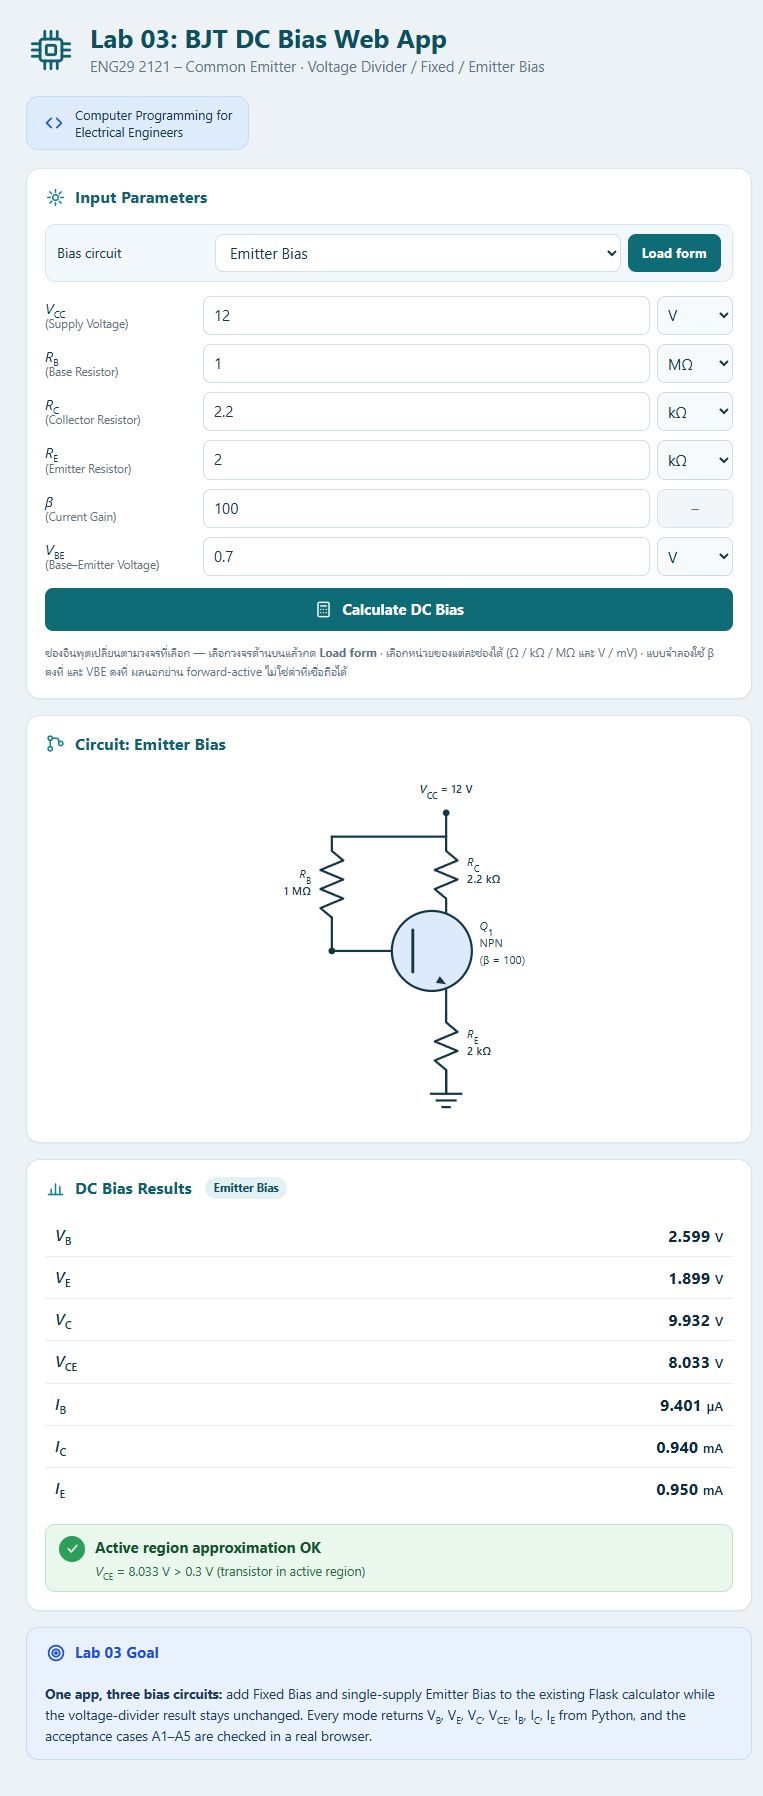
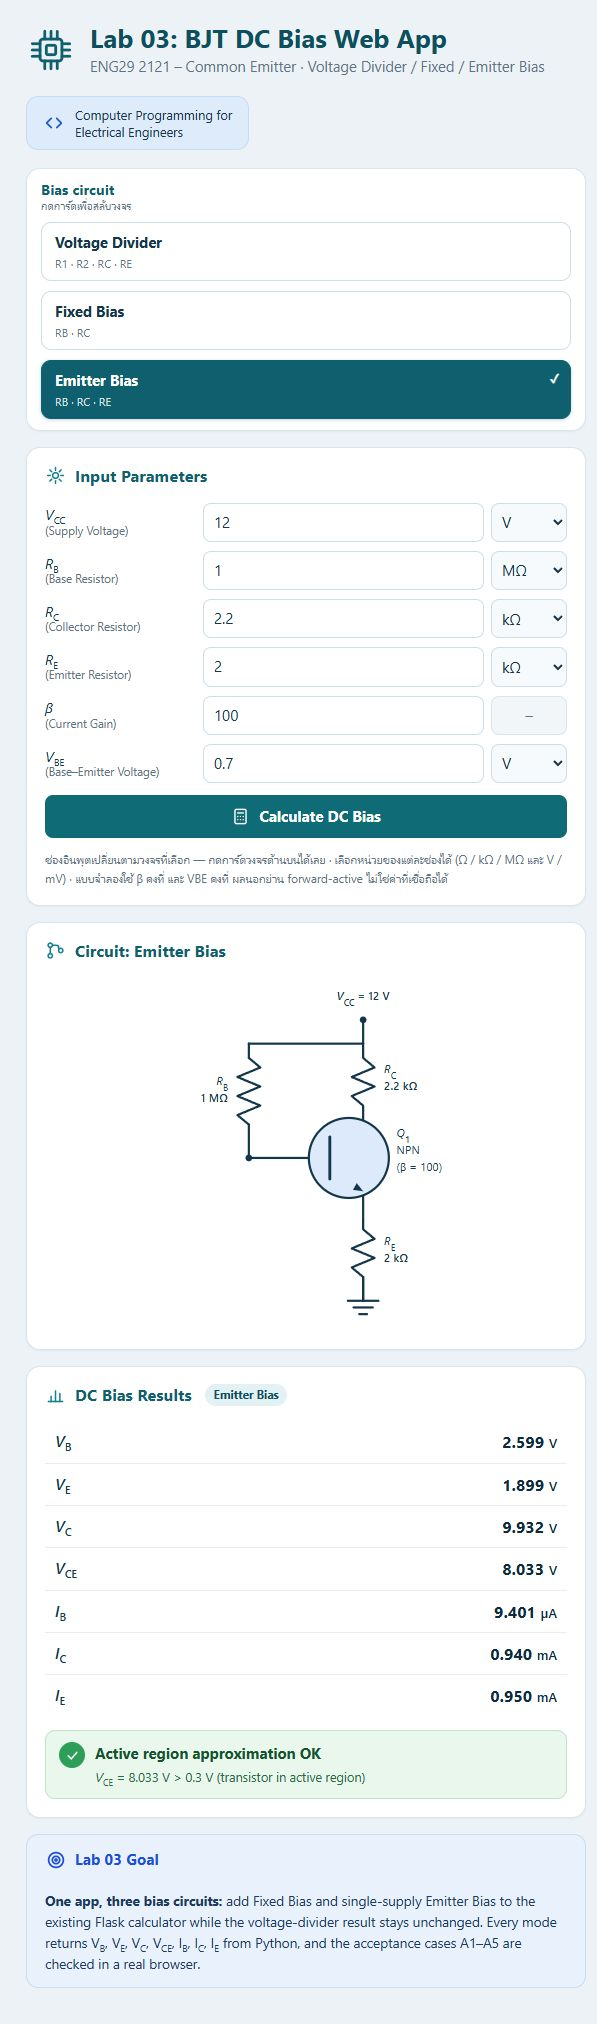
feat: switch the bias circuit with one click on a card
Replace the select plus Load form button with a full-width row of three
cards above the panels. Clicking a card loads that mode immediately, the
current card is filled in teal and cannot be clicked twice, and the cards
stack into full-width buttons on narrow screens.

MODE_OPTIONS now carries a short title and the resistor list for each mode
so the choice is readable at a glance; app.py still holds the single source
of truth for the fields each mode reads.

diff --git a/static/style.css b/static/style.css
@@ -437,47 +437,102 @@ sub {
 
 /* ---------- mode picker ---------- */
 
-.mode-picker {
+.mode-bar {
   display: flex;
   align-items: center;
-  gap: 10px;
-  margin: 0 0 14px;
-  padding: 9px 11px;
-  background: #f2f8fb;
+  gap: 14px;
+  margin: 0 0 16px;
+  padding: 11px 14px;
+  background: var(--card);
   border: 1px solid var(--line);
-  border-radius: 10px;
+  border-radius: 14px;
+  box-shadow: 0 1px 2px rgba(20, 54, 74, 0.05);
 }
 
-.mode-picker label {
-  flex: 0 0 148px;
-  font-size: 0.86rem;
-  line-height: 1.25;
+.mode-bar__label {
+  flex: 0 0 auto;
+  margin: 0;
+  color: var(--teal);
+  font-size: 0.9rem;
+  font-weight: 700;
+  line-height: 1.3;
 }
 
-.mode-picker select {
+.mode-bar__hint {
+  display: block;
+  color: var(--muted);
+  font-size: 0.7rem;
+  font-weight: 400;
+  white-space: nowrap;
+}
+
+.mode-options {
   flex: 1 1 auto;
+  display: grid;
+  grid-template-columns: repeat(3, minmax(0, 1fr));
+  gap: 10px;
   min-width: 0;
-  padding: 7px 10px;
+  margin: 0;
+}
+
+.mode-option {
+  position: relative;
+  display: flex;
+  flex-direction: column;
+  gap: 1px;
+  min-width: 0;
+  padding: 8px 13px;
   border: 1px solid #cfdde7;
-  border-radius: 8px;
+  border-radius: 10px;
   background: #fff;
   color: var(--ink);
   font: inherit;
+  text-align: left;
   cursor: pointer;
+  transition: border-color 120ms, background-color 120ms, box-shadow 120ms;
 }
 
-.mode-picker select:focus {
+.mode-option:hover {
+  border-color: var(--focus);
+  background: #f4fbfd;
+}
+
+.mode-option:focus-visible {
   outline: 2px solid #a9d3de;
   outline-offset: 1px;
   border-color: var(--focus);
 }
 
-.button.button--inline {
-  flex: 0 0 auto;
-  width: auto;
-  margin-top: 0;
-  padding: 7px 14px;
-  font-size: 0.84rem;
+.mode-option.is-active,
+.mode-option.is-active:hover {
+  border-color: var(--teal);
+  background: var(--teal);
+  color: #fff;
+  box-shadow: 0 1px 3px rgba(15, 95, 110, 0.25);
+  cursor: default;
+}
+
+.mode-option__name {
+  font-size: 0.92rem;
+  font-weight: 700;
+}
+
+.mode-option__parts {
+  color: var(--muted);
+  font-size: 0.7rem;
+  font-variant-numeric: tabular-nums;
+}
+
+.mode-option.is-active .mode-option__parts {
+  color: rgba(255, 255, 255, 0.82);
+}
+
+.mode-option__check {
+  position: absolute;
+  top: 8px;
+  right: 11px;
+  font-size: 0.75rem;
+  font-weight: 700;
 }
 
 .mode-chip {
@@ -549,6 +604,18 @@ sub {
   }
 }
 
+@media (max-width: 760px) {
+  .mode-bar {
+    flex-direction: column;
+    align-items: stretch;
+    gap: 8px;
+  }
+
+  .mode-options {
+    grid-template-columns: 1fr;
+  }
+}
+
 @media (max-width: 560px) {
   .page {
     padding: 16px 14px 28px;
@@ -568,13 +635,5 @@ sub {
 
   .field-error {
     margin-left: 0;
-  }
-
-  .mode-picker {
-    flex-wrap: wrap;
-  }
-
-  .mode-picker label {
-    flex-basis: 100%;
   }
 }

diff --git a/templates/index.html b/templates/index.html
@@ -33,6 +33,26 @@
     </div>
   </header>
 
+  <section class="mode-bar" aria-labelledby="mode-label">
+    <p class="mode-bar__label" id="mode-label">
+      Bias circuit
+      <span class="mode-bar__hint">กดการ์ดเพื่อสลับวงจร</span>
+    </p>
+    <form class="mode-options" method="get" action="{{ url_for('index') }}"
+          role="group" aria-labelledby="mode-label">
+      {% for value, label, short, parts in mode_options %}
+        <button type="submit" name="mode" value="{{ value }}"
+                title="{{ label }}"
+                class="mode-option{% if value == mode %} is-active{% endif %}"
+                {% if value == mode %}aria-current="true" disabled{% endif %}>
+          <span class="mode-option__name">{{ short }}</span>
+          <span class="mode-option__parts" aria-hidden="true">{{ parts }}</span>
+          {% if value == mode %}<span class="mode-option__check" aria-hidden="true">✓</span>{% endif %}
+        </button>
+      {% endfor %}
+    </form>
+  </section>
+
   <div class="layout">
     <section class="card" aria-labelledby="inputs-title">
       <h2 id="inputs-title">
@@ -44,18 +64,6 @@
         </span>
         Input Parameters
       </h2>
-
-      <form class="mode-picker" method="get" action="{{ url_for('index') }}">
-        <label for="mode">Bias circuit</label>
-        <span class="field__input">
-          <select id="mode" name="mode">
-            {% for value, label in mode_options %}
-              <option value="{{ value }}"{% if value == mode %} selected{% endif %}>{{ label }}</option>
-            {% endfor %}
-          </select>
-          <button type="submit" class="button button--inline">Load form</button>
-        </span>
-      </form>
 
       {% if errors %}
         <div class="errors" role="alert">
@@ -122,7 +130,7 @@
       </form>
 
       <p class="hint">
-        ช่องอินพุตเปลี่ยนตามวงจรที่เลือก — เลือกวงจรด้านบนแล้วกด <strong>Load form</strong> ·
+        ช่องอินพุตเปลี่ยนตามวงจรที่เลือก — กดการ์ดวงจรด้านบนได้เลย ·
         เลือกหน่วยของแต่ละช่องได้ (Ω / kΩ / MΩ และ V / mV) ·
         แบบจำลองใช้ β คงที่ และ VBE คงที่
         ผลนอกย่าน forward-active ไม่ใช่ค่าที่เชื่อถือได้

diff --git a/app.py b/app.py
@@ -22,14 +22,20 @@ DEFAULT_MODE = "divider"
 MODES = {
     "divider": {
         "label": "Voltage Divider Bias",
+        "short": "Voltage Divider",
+        "parts": "R1 · R2 · RC · RE",
         "fields": ("vcc", "r1", "r2", "rc", "re", "beta", "vbe"),
     },
     "fixed": {
         "label": "Fixed Bias",
+        "short": "Fixed Bias",
+        "parts": "RB · RC",
         "fields": ("vcc", "rb", "rc", "beta", "vbe"),
     },
     "emitter": {
         "label": "Emitter Bias",
+        "short": "Emitter Bias",
+        "parts": "RB · RC · RE",
         "fields": ("vcc", "rb", "rc", "re", "beta", "vbe"),
     },
 }
@@ -40,7 +46,12 @@ BIAS_FUNCTIONS = {
     "emitter": calculate_emitter_bias,
 }
 
-MODE_OPTIONS = tuple((name, config["label"]) for name, config in MODES.items())
+# (value, full label, short title, resistor list) — the picker shows the short
+# title and the parts so the choice is readable without opening a dropdown.
+MODE_OPTIONS = tuple(
+    (name, config["label"], config["short"], config["parts"])
+    for name, config in MODES.items()
+)
 
 DEFAULT_FORM = {
     "vcc": "12",

diff --git a/README.md b/README.md
@@ -120,7 +120,8 @@ Lab 03 ไม่ได้เพิ่ม unittest ใหม่ตามใบง
 | **Fixed Bias** | VCC, RB, RC, β, VBE | RB จาก VCC ไป Base, Emitter ต่อลงกราวด์โดยตรง |
 | **Emitter Bias** | VCC, RB, RC, RE, β, VBE | RB จาก VCC ไป Base, RE จาก Emitter ลงกราวด์ |
 
-เลือกวงจรจากเมนู **Bias circuit** แล้วกด **Load form** ฟอร์มจะแสดงเฉพาะช่องที่โหมดนั้นใช้
+กดการ์ดวงจรที่ต้องการได้เลย (ไม่ต้องกดปุ่มโหลด) ฟอร์มจะแสดงเฉพาะช่องที่โหมดนั้นใช้
+และไฮไลต์การ์ดของโหมดปัจจุบันไว้
 โหมดที่ไม่รู้จักจะแจ้งข้อผิดพลาด ไม่ถูกตีความเป็น Voltage Divider
 
 ## สมการที่ใช้

diff --git a/docs/validation.md b/docs/validation.md
@@ -167,6 +167,7 @@ VCE = 9.932 − 1.899                    = 8.033 V
 | Thevenin equivalent แสดงเฉพาะ Divider | ผ่าน — Fixed/Emitter ซ่อน เพราะไม่มี VTH/RTH |
 | หน่วย MΩ บนช่อง RB | ผ่าน — 1 MΩ ให้ผลเท่า 1000 kΩ |
 | เปลี่ยนโหมดแล้วฟอร์มโหลดใหม่ | ผ่าน — `GET /?mode=fixed` แสดงเฉพาะช่องที่ใช้ |
+| สลับโหมดด้วยการกดการ์ดครั้งเดียว | ผ่าน — กดการ์ด Emitter Bias แล้วไป `?mode=emitter` ทันที (ไม่มีปุ่มโหลดแยก) และการ์ดของโหมดปัจจุบันถูกไฮไลต์ + กดซ้ำไม่ได้ |
 | ผลรอบก่อนไม่ค้างหลัง error | ผ่าน — A5 แสดง placeholder แทนตารางผล |
 
 ## ผล unittest

diff --git a/docs/superpowers/plans/2026-11-17-lab03-bjt-bias-modes.md b/docs/superpowers/plans/2026-11-17-lab03-bjt-bias-modes.md
@@ -47,6 +47,7 @@
 
 ### Task 3 · `templates/index.html` + `static/style.css`
 - [x] ฟอร์มเลือกโหมด (GET) + hidden `mode` ในฟอร์ม POST
+- [x] แถบการ์ดเลือกวงจรเต็มความกว้างเหนือการ์ดทั้งสาม — กดครั้งเดียวสลับโหมด (เลิกใช้ select + ปุ่ม Load form)
 - [x] แสดงเฉพาะช่องของโหมด (`mode_fields`)
 - [x] ช่อง `rb` + label
 - [x] Thevenin แสดงเฉพาะ Divider
